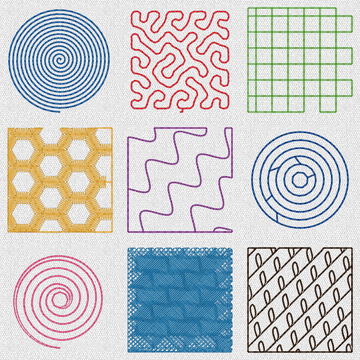
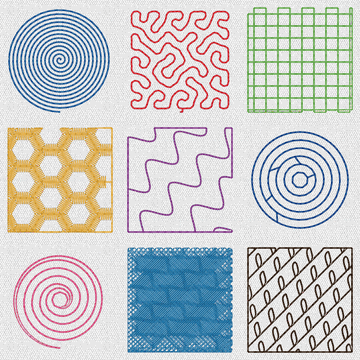
Plain net: default Spacing 3.0 as PE-DESIGN; kit and docs (#1110)
Kit region-sew-types-2: 4,658 -> 4,727 stitches. Designs of .osd version 4
or older keep 4.0 on nets that left Spacing unset.

Changed region(s): [[0.6722, 0.0, 1.0, 0.3361]]

diff --git a/docs/FEATURE_MATRIX.md b/docs/FEATURE_MATRIX.md
@@ -104,7 +104,7 @@ PE-DESIGN reference, sew-out) is generated from the compatibility report into
 | Region sew types | Fill Stitch Type 2 (PE-DESIGN's second Stitch Type button: sloped rows, each pass rising one row spacing from edge to edge so the passes join in one continuous zigzag, needle grid by the Frequency rule from the row each pass ends on; `stitchType` 1/2 on `object.setRegion` and the inspector's Fill "Stitch type" choice, saved in `.osd` only when 2; Stitch Type 1 is OpenStitch's fill) | Partially Compatible | PE-DESIGN reference specs `tatami-40-st2-dir0/30/90`, `tatami-40-st2-dir45-freq0`, `tatami-40-stitch-type-2` and the Type 1 set `tatami-40-st1-dir0/30/90` (round 5, 2026-10-30); pescmp vs PE: 0° identical (needle 0.001 mm, IoU 1.000), 90° 0.048 mm / 0.969, 45° 0.305 / 0.976, 30° 0.318 / 0.849; unit tests `stitch_type_2_passes_rise_one_row_from_edge_to_edge`, `stitch_type_2_needle_grid_follows_the_row_a_pass_ends_on`, `fill_stitch_type_is_set_sewn_saved_and_undone`, `fill_offers_stitch_type_with_the_region_s_value` (COMPATIBILITY_AUDIT item 15) | Row anchor at 30°/45°, shared with Type 1: round 6 pins PE's rows to the shape at the exact 1/density spacing counted from the far side (round-6 specs `tatami-40-pos*`, `tatami-40x20-*`); still to model: the per-angle needle-grid constant and PE-DESIGN's page-position dependence |
 | Region sew types | Programmable fill (OpenStitch's own tile library in `openstitch.pattern`; needle points only where the rows cross the pattern's lines, the tile on the page axes from the region's top-left corner, rows sharing their turning points, gaps unsplit up to 12 mm, as PE-DESIGN 11.50 (owner-v: 10.6 mm), or split evenly past `splitLength` 2-12 mm, beyond PE-DESIGN (#459); 45° default direction (guide); size, row/column offset, base sewing with frequency 0–50 %, the inspector showing Frequency only with Base sewing on, as PE-DESIGN greys it otherwise, #1042), motif fill (library motifs in rows, each base line in the middle of its band from the region's top edge, rows from the one nearest the start point, travel along the outline in steps of at most 2 mm, tie-in and lock, as PE-DESIGN 11.50; size, spacing, row offset, run pitch), piping (running-stitch rows, frequency), cross stitch (whole cells inside, size, Times and kinds in the Cross stitch Times row; the grid on the page axes from the design origin whatever the direction, as PE-DESIGN 11.50's o-region-cross.pes at 45°, so two regions share it; each row sewn out and back as Cross Stitch from an image, a whole X per cell, travel only along the crosses' half diagonals, #463); stippling one lattice cell wide (or high) closes its loops (a step down was taken for a step right on one column, #638: seed 993's 32 GiB allocation); on a band too narrow for the meander's cells the spacing tightens in 10 % steps, down to half, until it fits (#708); a ring's fill pieces join inside the band, never across the hole (#615) | Implemented | `object.setRegion`, `patterns.list`; `every_region_type_sews_inside_with_bounded_stitches`, `every_pattern_of_every_patterned_type_sews`, `programmable_fill_puts_needle_points_on_the_pattern`, `programmable_fill_defaults_to_45_degrees`, `programmable_fill_splits_long_stitches_on_request`, `piping_rows_shift_by_the_frequency`, `cross_stitch_sews_an_x_in_every_cell`, `motif_fill_repeats_the_motif_in_rows`, `every_region_type_is_set_sewn_saved_and_undone`, compat `prog-fill-square-4pt`, `prog-fill-line-2pt`, `motif-fill-clean-p1` (reference: PE-DESIGN 11.50's fills of owner-made patterns, counts within 3 %, the programmable fills' needle points within 0.2 mm; the motif fill on a clean capture since 2026-11-14, #1077, its fill block 111 needle points as PE-DESIGN's; it replaces `motif-fill-2pt`, removed because its capture listed a PE-DESIGN built-in motif, on which 130 needle points as PE-DESIGN's were measured), `bad_region_type_parameters_fail_cleanly`; examples/region-types.json, docs/images/engine-region-types.png, examples/programmable-fill.json, docs/images/engine-programmable-fill.png; `stippling_one_cell_wide_or_high_closes_its_loops` (#638), `fills_on_a_ring_never_cross_its_hole_and_a_narrow_band_still_stipples` (#615, #708) | Whether a type change keeps the old direction (it does now; needs reference); which way the motif fill walks when both ends of its first row are as near the start point (PE-DESIGN went right on its one reference, OpenStitch goes left); the programmable fill's pattern Direction; Motif Pattern1/Pattern2 combinations and H/V arrange; calibration (user patterns: see Programmable Stitch Creator) |
 | Region sew types | Cross stitch Times as PE-DESIGN 11.50 (#614): Size and Times (Single, Double, Triple) and no Direction, as its Sewing Attributes show; each diagonal covered 2, 4 or 6 times (whole 2·times − 1 times and once in halves), 256 more stitches per step on a 20 mm square as PE-DESIGN's files; PES 0110 reads and writes Times (body +284: 2, 4, 6) and Size (+282); the old `triple` switch is Times Double. Beyond PE-DESIGN (+): `crossKind` half (/), upright (+) and Smyrna (X with a + over it), each line of neighbouring cells sewn out and back `times` times | Implemented | `object.setRegion` `times`, `crossKind` (`angle` ignored); inspector Times and Cross choices, Direction hidden; `cross_stitch_sews_an_x_in_every_cell`, `cross_kinds_sew_their_own_strokes_in_every_cell`, `cross_stitch_times_and_kinds_go_through_the_command`, `cross_stitch_times_import_sew_and_export_as_pe_design`, `cross_stitch_choices_reach_the_engine_and_it_has_no_direction`; compat `cross-single`, `cross-double`, `cross-triple` (PE-DESIGN 11.50 round 8: 410, 666, 922 st; counts within 5 %, bounds within 0.35 mm) | Needle-for-needle route: PE-DESIGN sews each diagonal out and back and travels round the outer cells first (OpenStitch: rows out and back along the half diagonals, #463), 18 stitches more at each Times; the beyond-PE kinds have no reference |
-| Region sew types | Concentric circle and spiral as PE-DESIGN 11.50 sews them (#138; Density default 2.0 lines/mm, Run pitch 2.0 mm, Start Point first/second button = `startInside`): concentric circle = circles about the centre one row apart, the whole ones from the largest inwards from one radial seam (where the first cut circle meets the outline walking counter-clockwise from R1), a trim, then the cut ones outwards as arcs (a start point beyond the whole circles: the arcs first, then a trim and a jump in, as PE's concentric-rect30x40 and triangle, #461), 4·2ⁿ needle points a circle (at least 16) on the 0.1 mm grid; spiral = one path from R1 on the outline, the outline offset a row inwards per turn to the middle (rectangular turns on a rectangle, a spiral round a hole too), 4·2ⁿ points a smooth turn, corners kept; the second button sews either backwards; no travel to R1/R2 (PE jumps in and ends where the pattern ends); an inner shape whose region is Not Sewn stays a hole; radial (lines thinned towards the centre so neighbouring needle points stay 0.4 mm apart and only one line reaches it; sewn from the line nearest R1, ending on the outline, #461), flexible spiral (outline shrunk turn by turn, from R1 on the outline to the middle with no run back out, #461), start inside/outside; stippling (random spanning tree on a grid fitted to the shape, fixed seed, non-crossing closed path; passes evened to the set spacing and the outer ones moved to about half a spacing from the outline and holes, curve stitches up to 2 mm, starting and ending at the point nearest R1 so no run lies along the outline, #462: mean gap to the outline on a 26 mm square 2.45 → 1.07 mm, run along the outline 71 → 2 mm); net fill (square, diamond, triangle, honeycomb, star, crossed waves; a switch to net fill starts at Direction 0, as PE-DESIGN 11.50 resets it (round 13 part 4, #1054); a net stored at another angle keeps it; its lines start half a spacing in from the top-left corner of the shape's bounds along both turned axes and the needle steps the run pitch along each whole line, through its crossings, as PE-DESIGN's do (#1071: round 13's net-switch-dir0, net-dir45 and net-dir90 needle points inside the shape the same as PE-DESIGN's; 280 / 315 / 278 stitches against 281 / 336 / 281, the rest PE-DESIGN's travel along the outline, an open item of #1043)); zigzag net fill (first four, width, density, under sewing); decorative fill (OpenStitch's own row patterns, size, random shift; patterns with free lines (`freeLines`, the user's own `.plf`) tiled as a grid centred on the region up to 100 mm, lines split evenly at the run pitch, travel along the outline in 2 mm steps, tie-in and lock, as PE-DESIGN 11.50, compat `deco-fill-1line-100mm`, `deco-fill-1line-offcentre` (the tile centred on the shape's box); PE-DESIGN also repeats the line and walks the outline, 292 and 357 needle points against 73 and 83); travel around the edges / inside the region (minimize feed) | Implemented (reference tier: concentric-circle40, -start2, -d1p0, -d3p0, -pitch3p0, concentric-rect40x30, concentric-ring40-hole15, spiral-circle40, -start2, -d1p0, -d3p0, -pitch3p0, spiral-rect40x30, spiral-ring40-hole15) | `concentric_circle_sews_whole_circles_outside_in_then_the_cut_ones`, `concentric_circle_on_a_rectangle_seams_where_the_first_cut_circle_leaves_the_bottom`, `concentric_circle_skips_a_hole_and_start_point_two_reverses_it`, `spiral_starts_on_the_outline_and_closes_in_a_row_per_turn`, `spiral_turns_on_a_rectangle_are_rectangles_a_row_apart_on_both_axes`, `spiral_round_a_hole_never_sews_into_it_and_start_point_two_reverses_it`, `both_types_default_to_pe_designs_density_and_sew_through_the_region_code`, `circles_and_spirals_start_where_asked`, `radial_lines_thin_out_towards_the_centre`, `stippling_is_a_closed_path_that_never_crosses_itself`, `square_net_lines_are_straight_and_axis_aligned`, `region_types_without_travel_jump_between_parts`; docs/images/engine-region-types.png | Open: the pitch-3.0 spiral count (PE 1354, OpenStitch 1284, internal-tier check; PE's turn counts fall off gradually below the 4·2ⁿ threshold, rule not found, COMPATIBILITY_AUDIT) and the ring spiral count (PE 1952: 31 trimmed sliver pieces in the meeting band, 64 trims, not copied; OpenStitch 1473); the concentric seam on Bézier outlines. Settled 2026-10-31: tie-in and lock on every Concentric/Spiral run, grazing cut circles sewn whole, the triangle spiral's width; concentric outside-in order from a start point beyond the whole circles and triangle spiral sides (round 6, 12 more specs). Open, pinned at the internal tier: spiral needles per turn below the outer power-of-two turns (pitch 1.0/4.0, 20 mm circle), concentric needles per circle (20 mm circle, square, triangle). Spiral round a hole (round 7, 6 more specs): PE's trimmed band pieces between the two spirals not sewn yet (needs PE's turn sampling rule; the default will sew them, with compatMode "openStitch" for the single travel). Settled (round 5, 8 more specs): the spiral winds counter-clockwise and ends in the middle from a start point on a vertex, clockwise with a trimmed closing run back to the start from a start point inside an edge; concentric: PE splits more chords inside a circle (counts within 3 %), the seam on a Bézier circle (PE's 9 o'clock depends on its outline flattening); spiral: the winding on a circle (PE turns against its outline there, with it on a rectangle), the meeting band of a spiral with a hole (PE: about 30 trimmed pieces, 64 trims; OpenStitch one travel, count not compared), the return run PE sews on a rectangle after the middle; moving the centre point; PE-DESIGN's concentric/radial effects (Design Center); stippling with motifs; radial, flexible spiral and stippling calibration |
+| Region sew types | Concentric circle and spiral as PE-DESIGN 11.50 sews them (#138; Density default 2.0 lines/mm, Run pitch 2.0 mm, Start Point first/second button = `startInside`): concentric circle = circles about the centre one row apart, the whole ones from the largest inwards from one radial seam (where the first cut circle meets the outline walking counter-clockwise from R1), a trim, then the cut ones outwards as arcs (a start point beyond the whole circles: the arcs first, then a trim and a jump in, as PE's concentric-rect30x40 and triangle, #461), 4·2ⁿ needle points a circle (at least 16) on the 0.1 mm grid; spiral = one path from R1 on the outline, the outline offset a row inwards per turn to the middle (rectangular turns on a rectangle, a spiral round a hole too), 4·2ⁿ points a smooth turn, corners kept; the second button sews either backwards; no travel to R1/R2 (PE jumps in and ends where the pattern ends); an inner shape whose region is Not Sewn stays a hole; radial (lines thinned towards the centre so neighbouring needle points stay 0.4 mm apart and only one line reaches it; sewn from the line nearest R1, ending on the outline, #461), flexible spiral (outline shrunk turn by turn, from R1 on the outline to the middle with no run back out, #461), start inside/outside; stippling (random spanning tree on a grid fitted to the shape, fixed seed, non-crossing closed path; passes evened to the set spacing and the outer ones moved to about half a spacing from the outline and holes, curve stitches up to 2 mm, starting and ending at the point nearest R1 so no run lies along the outline, #462: mean gap to the outline on a 26 mm square 2.45 → 1.07 mm, run along the outline 71 → 2 mm); net fill (square, diamond, triangle, honeycomb, star, crossed waves; Spacing, the line pitch, defaults to 3.0 mm as PE-DESIGN 11.50's reset button sets it, and nets of .osd files before version 5 that left it unset keep the 4.0 mm they sewed with (#1110, design `version_4_plain_nets_keep_their_four_millimetre_spacing`); a switch to net fill starts at Direction 0, as PE-DESIGN 11.50 resets it (round 13 part 4, #1054); a net stored at another angle keeps it; its lines start half a spacing in from the top-left corner of the shape's bounds along both turned axes and the needle steps the run pitch along each whole line, through its crossings, as PE-DESIGN's do (#1071: round 13's net-switch-dir0, net-dir45 and net-dir90 needle points inside the shape the same as PE-DESIGN's; 280 / 315 / 278 stitches against 281 / 336 / 281, the rest PE-DESIGN's travel along the outline, an open item of #1043)); zigzag net fill (first four, width, density, under sewing); decorative fill (OpenStitch's own row patterns, size, random shift; patterns with free lines (`freeLines`, the user's own `.plf`) tiled as a grid centred on the region up to 100 mm, lines split evenly at the run pitch, travel along the outline in 2 mm steps, tie-in and lock, as PE-DESIGN 11.50, compat `deco-fill-1line-100mm`, `deco-fill-1line-offcentre` (the tile centred on the shape's box); PE-DESIGN also repeats the line and walks the outline, 292 and 357 needle points against 73 and 83); travel around the edges / inside the region (minimize feed) | Implemented (reference tier: concentric-circle40, -start2, -d1p0, -d3p0, -pitch3p0, concentric-rect40x30, concentric-ring40-hole15, spiral-circle40, -start2, -d1p0, -d3p0, -pitch3p0, spiral-rect40x30, spiral-ring40-hole15) | `concentric_circle_sews_whole_circles_outside_in_then_the_cut_ones`, `concentric_circle_on_a_rectangle_seams_where_the_first_cut_circle_leaves_the_bottom`, `concentric_circle_skips_a_hole_and_start_point_two_reverses_it`, `spiral_starts_on_the_outline_and_closes_in_a_row_per_turn`, `spiral_turns_on_a_rectangle_are_rectangles_a_row_apart_on_both_axes`, `spiral_round_a_hole_never_sews_into_it_and_start_point_two_reverses_it`, `both_types_default_to_pe_designs_density_and_sew_through_the_region_code`, `circles_and_spirals_start_where_asked`, `radial_lines_thin_out_towards_the_centre`, `stippling_is_a_closed_path_that_never_crosses_itself`, `square_net_lines_are_straight_and_axis_aligned`, `region_types_without_travel_jump_between_parts`; docs/images/engine-region-types.png | Open: the pitch-3.0 spiral count (PE 1354, OpenStitch 1284, internal-tier check; PE's turn counts fall off gradually below the 4·2ⁿ threshold, rule not found, COMPATIBILITY_AUDIT) and the ring spiral count (PE 1952: 31 trimmed sliver pieces in the meeting band, 64 trims, not copied; OpenStitch 1473); the concentric seam on Bézier outlines. Settled 2026-10-31: tie-in and lock on every Concentric/Spiral run, grazing cut circles sewn whole, the triangle spiral's width; concentric outside-in order from a start point beyond the whole circles and triangle spiral sides (round 6, 12 more specs). Open, pinned at the internal tier: spiral needles per turn below the outer power-of-two turns (pitch 1.0/4.0, 20 mm circle), concentric needles per circle (20 mm circle, square, triangle). Spiral round a hole (round 7, 6 more specs): PE's trimmed band pieces between the two spirals not sewn yet (needs PE's turn sampling rule; the default will sew them, with compatMode "openStitch" for the single travel). Settled (round 5, 8 more specs): the spiral winds counter-clockwise and ends in the middle from a start point on a vertex, clockwise with a trimmed closing run back to the start from a start point inside an edge; concentric: PE splits more chords inside a circle (counts within 3 %), the seam on a Bézier circle (PE's 9 o'clock depends on its outline flattening); spiral: the winding on a circle (PE turns against its outline there, with it on a rectangle), the meeting band of a spiral with a hole (PE: about 30 trimmed pieces, 64 trims; OpenStitch one travel, count not compared), the return run PE sews on a rectangle after the middle; moving the centre point; PE-DESIGN's concentric/radial effects (Design Center); stippling with motifs; radial, flexible spiral and stippling calibration |
 | Region sew types | Zigzag net fill as PE-DESIGN 11.50 sews it (o-region-zigzag-net, #293): a satin band along every net line, a rung straight across then a diagonal back, defaults band 3.0 mm, net spacing 8.0 mm, a rung every 0.44 mm (density 2.25); every net edge sewn once (the honeycomb's rows share theirs), each rung square to its edge and cut where bands meet at a line's end or turn (bands crossing straight through a crossing stay whole, as the reference), every needle point inside the outline, travel along the net lines, no needle point within 0.3 mm of the last (#463); its lines starting half a band inside the shape's left and top edges, as PE-DESIGN's reference (#616: needle points within 0.06 / 0.12 mm mean of PE's, both ways; with a reference point the net starts there); the Direction turns the net as PE-DESIGN does (#1043, round 13: 0°, 30°, 45°, 90° on a 30 × 20 mm rectangle; main stitch directions within 6° of PE's), its lines starting from the top-left corner of the shape's bounds on the page, half a band in along both turned axes, as PE-DESIGN's do (round 13, nine Directions and three sizes: band centre lines within 0.05 mm of PE's at 30°, 45°, 90° and 180°, #1043); like PE-DESIGN, it sews the part of every band that reaches into the shape, also where its line runs outside the outline (the lines laid over the shape grown by half a band, the line itself and the travel kept on the shape), the needle stepping along the outline, down to 0.1 mm, where the outline cuts a rung and the diagonal back from it (#1043: stitch counts within 5 % of PE-DESIGN's on 10 of its 12 captures), no rung crossing the next on a circle turned by any angle (where the outline cuts a band's last rung, the needle goes straight on from the line's end, #1058), and a switch to zigzag net starts at Direction 0, PE-DESIGN's default for the type (a 45° fill switched shows 0 there); nets of .osd files before version 4, which sewed on the axes whatever their angle, load at Direction 0 | Implemented | `every_region_type_sews_inside_with_bounded_stitches`; ready-to-sew kit `fills/region-sew-types-2.pes`; engine `zigzag_net_sews_on_the_page_axes_as_pe_design_does` (#616), `direction_turns_the_zigzag_net`, `a_switch_to_zigzag_net_starts_at_direction_zero`, `a_turned_zigzag_net_starts_where_pe_design_starts_it`, `a_switch_to_net_fill_starts_at_direction_zero` (#1054), design `version_3_zigzag_nets_load_at_direction_zero` (#1043), `zigzag_net_stays_inside_and_its_rungs_do_not_cross`, `zigzag_net_rungs_do_not_cross_on_a_turned_circle` (#1058) | Machine sew-out of the new net (the old one sewed lumpy on the NV880E, 2026-11-04); PE-DESIGN travels along the outline as well as along the net lines, so it reaches a band whose line lies wholly outside the shape wherever it is; OpenStitch sews such a band only where its line meets the net on the outline, and its stitch counts are 1–6 % below PE-DESIGN's (40 × 20 mm at 45° and 90°: 1,411 and 1,055 against 1,496 and 1,127), #1043 |
 | Region sew types | Tie-in and end lock on every run a trim separates, as PE-DESIGN 11.50 sews them (all but one of the 2,590 trimmed runs in its reference files end with a lock): every region and line type, and Photo Stitch 1 and 2, Cross Stitch runs (`stitch_edit::lock_runs`); opened stitch files and cutwork keep theirs (#289, #295); at a join sewn across between two objects of one thread neither side is locked, as PE-DESIGN 11.50 sews it: the end lock before the join and the tie-in after it are left out (an object's own ties, #548, and joins into or out of a letter, #1082, keep theirs), and a move from one object's line into the next one's is sewn across only up to 1.25 mm (2.3 mm between fills and between a fill and a line), #987 | Implemented | `golden_project_compiles_to_recorded_statistics`, engine `script_output_matches_golden_pes`; `tools/sew_check.py` on the kit; compat `sew-across-running-lines-*` (six PE-DESIGN 11.50 captures of two running lines 0.5 to 3.0 mm apart: stitch count, trims and stitches under 1 mm exact, reference) | Machine sew-out (the unlocked sunset patch left loose tails, 2026-11-04) |
 | Wizards | Split designs: custom Design Page in hoop sections (10 mm smaller than the hoop; smaller sections option), even or user split positions, left-to-right/top-to-bottom order, alignment stitching (7 mm running, 0.3 mm fixing) before/after per shared edge, one machine file per section centred on its hoop | Implemented | `sections.set`, `sections.list`, `sections.export`; `split_grid_orders_sections_and_alignment_edges_like_the_guide`, `section_files_hold_their_part_with_alignment_stitching_centred_on_the_hoop`, `split_sections_list_and_export_one_file_each`, `sections_bad_parameters_fail_cleanly`; editor overlay + Design Settings + File ▸ Export Sections (docs/images/rust-editor-split.png); examples/split-banner.json | PE-DESIGN writes one PES with its own section header (undocumented): ours is one file per section; section label scheme and full section-size list are images in the guide; the ruler marker for each split line (lines are dragged on the Design Page with Hoop Settings ▸ Move Sections, `move_sections_drags_a_split_line`) |

diff --git a/docs/releases/v0.1.0-alpha.15.md b/docs/releases/v0.1.0-alpha.15.md
@@ -59,5 +59,13 @@ These defaults changed. Each item says how to get the old behaviour back where t
   Min whatever the count, so the Steps control, which changed nothing, is gone. A script or design
   that still passes `gradationSteps` is accepted and gets a hint that it is ignored; on its own it
   no longer turns a gradation pattern on. No stitches change.
+- **A plain net's default Spacing is 3.0 mm (#1110):**
+  - **What changed:** a Net Fill region with no Spacing of its own now sews its lines 3.0 mm
+    apart, PE-DESIGN 11.50's default (its Spacing field's reset button), not 4.0 mm. The
+    ready-to-sew kit's `fills/region-sew-types-2.pes` (a square net) goes from 4,658 to 4,727
+    stitches.
+  - **Not affected:** designs saved before this version (.osd version 4 or older): a net that
+    left Spacing unset loads with 4.0 mm and sews as before. A net with its own Spacing keeps it.
+  - **Old behaviour:** set Spacing to 4.0.
 
 <!-- TODO(release gate): the other Changed output entries of this alpha. -->

diff --git a/examples/sew/README.md b/examples/sew/README.md
@@ -355,7 +355,7 @@ Threads, in sewing order: 405 Blue, 800 Red, 509 Leaf Green, 208 Orange, 620 Mag
 
 #### Region sew types (2 of 2)
 
-[`fills/region-sew-types-2.pes`](fills/region-sew-types-2.pes) · 100 × 100 mm hoop · 86 × 86 mm · 4,658 stitches · 9 trims · about 6.3 min
+[`fills/region-sew-types-2.pes`](fills/region-sew-types-2.pes) · 100 × 100 mm hoop · 86 × 86 mm · 4,727 stitches · 9 trims · about 6.4 min
 
 Flexible spiral, stippling, net fill (square), zigzag net fill (honeycomb), decorative fill (waves), contour fill as rings and as a double spiral (beyond PE-DESIGN), programmable fill (bricks) with base sewing, motif fill (leaf).
 
